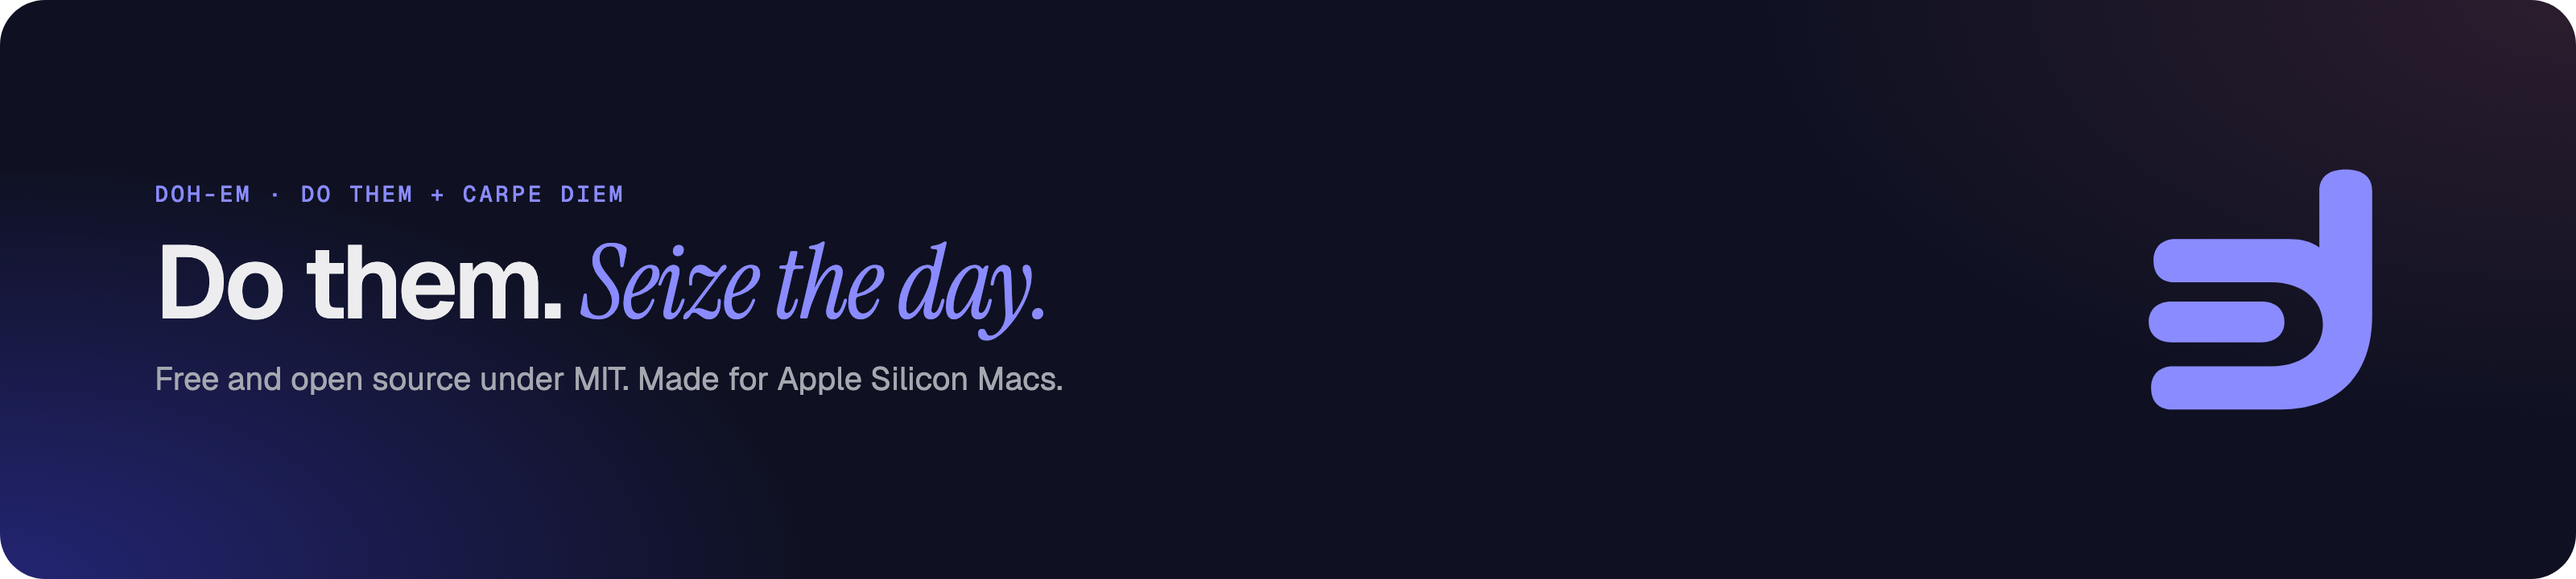
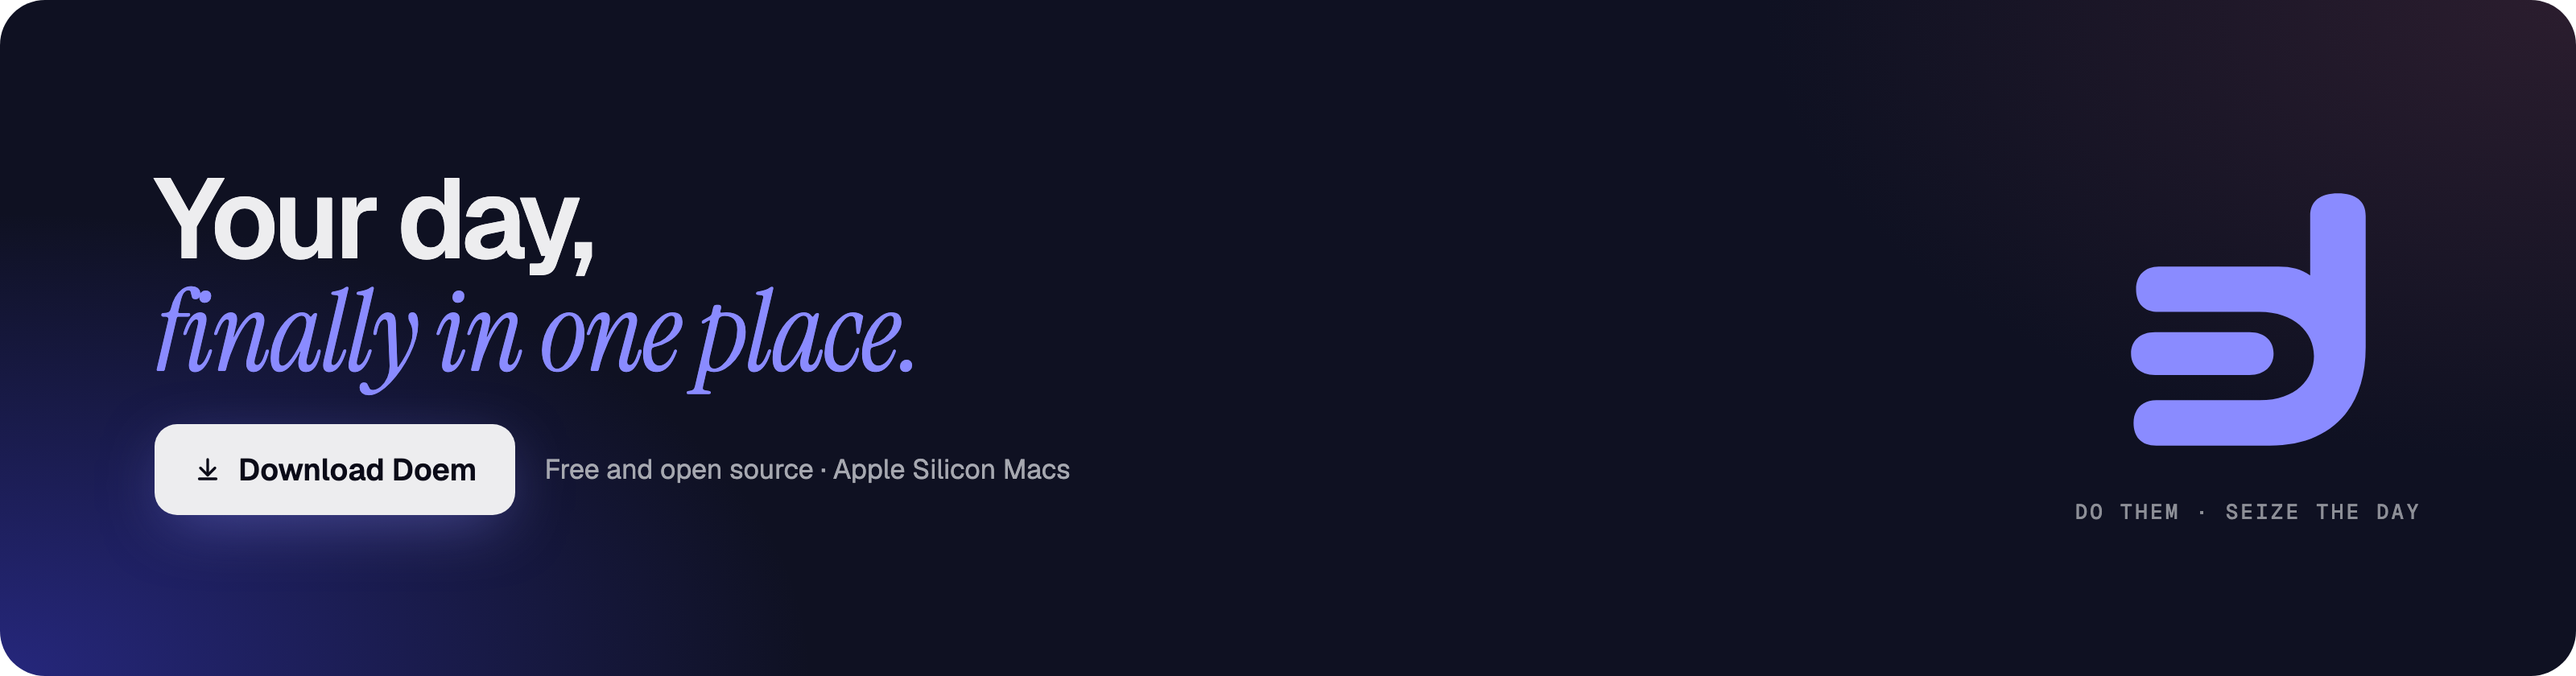
docs: rewrite the README as a product page
Outcome-led hero, four story banners with real UI zooms, Claude Code
and keyboard cards, and a download CTA footer. Reference material moves
into collapsed sections.

Changed region(s): [[0.0625, 0.2444, 0.4062, 0.5806], [0.0625, 0.6111, 0.4062, 0.7944], [0.8125, 0.275, 0.9375, 0.7639]]

diff --git a/README.md b/README.md
@@ -1,80 +1,71 @@
-<picture>
-  <source media="(prefers-color-scheme: dark)" srcset="docs/media/banners/hero-dark.png">
-  <img src="docs/media/banners/hero-light.png" alt="doem. Do them. Seize the day. Tasks, calendar and tracked time in one Mac app.">
-</picture>
+<a href="https://github.com/PurvarajG/doem/releases/latest/download/Doem-latest-arm64.dmg">
+  <picture>
+    <source media="(prefers-color-scheme: dark)" srcset="docs/media/banners/hero-dark.png">
+    <img src="docs/media/banners/hero-light.png" alt="doem. Plan the day. Know where it went. Tasks, calendar and a timer in one window.">
+  </picture>
+</a>
 
 <p align="center">
-  <a href="https://github.com/PurvarajG/doem/releases/latest/download/Doem-latest-arm64.dmg"><img src="https://img.shields.io/badge/Download-Apple%20Silicon%20.dmg-4a4ae8?style=for-the-badge&logo=apple&logoColor=white" alt="Download for Apple Silicon (.dmg)"></a>
+  <a href="https://github.com/PurvarajG/doem/releases/latest/download/Doem-latest-arm64.dmg"><img src="https://img.shields.io/badge/Download%20for%20Mac-Free-4a4ae8?style=for-the-badge&logo=apple&logoColor=white" alt="Download for Mac, free"></a>
 </p>
 
 <p align="center">
-  <a href="https://github.com/PurvarajG/doem/releases/latest"><img src="https://img.shields.io/github/v/release/PurvarajG/doem?style=flat-square&color=4a4ae8&label=release" alt="Latest release"></a>
-  <img src="https://img.shields.io/badge/macOS-12%2B%20·%20arm64-141519?style=flat-square" alt="macOS 12 or later, Apple Silicon">
-  <img src="https://img.shields.io/badge/data-stays%20local-8a8bff?style=flat-square" alt="Data stays local">
-  <a href="LICENSE"><img src="https://img.shields.io/badge/licence-MIT-141519?style=flat-square" alt="MIT licence"></a>
+  <a href="https://github.com/PurvarajG/doem/releases/latest"><img src="https://img.shields.io/github/v/release/PurvarajG/doem?style=flat-square&color=4a4ae8&label=latest" alt="Latest release"></a>
+  <img src="https://img.shields.io/badge/Apple%20Silicon-macOS%2012%2B-141519?style=flat-square" alt="Apple Silicon, macOS 12 or later">
+  <a href="LICENSE"><img src="https://img.shields.io/badge/open%20source-MIT-141519?style=flat-square" alt="Open source, MIT"></a>
 </p>
 
-<p align="center">
-Doem is a Mac app that keeps your tasks, your calendar and your tracked time in one place,<br>with all data stored locally on your computer.
-</p>
+<h3 align="center">Your to-do list doesn't know how long things take.<br>Your calendar doesn't know what you need to do.<br>Doem knows both.</h3>
 
 <br>
 
+<img src="docs/media/banners/feature-plan.png" alt="Know what fits before you say yes. Every day shows how full it is, and Doem flags a day that is overbooked.">
+
+<img src="docs/media/banners/feature-calendar.png" alt="Your week, blocked out. Drag tasks onto days and see planned time beside tracked time.">
+
+<img src="docs/media/banners/feature-tracking.png" alt="See where the hours went. Time by day and project, and how far your estimates were off.">
+
+<img src="docs/media/banners/feature-wrap.png" alt="End the day with a clean slate. A two-minute wrap up of what got done, which estimates ran over and what is on for tomorrow.">
+
 <table>
   <tr>
-    <td width="50%"><img src="docs/media/banners/feature-tasks.png" alt="Tasks: capture fast, plan the day"></td>
-    <td width="50%"><img src="docs/media/banners/feature-calendar.png" alt="Calendar: your tasks on the calendar"></td>
-  </tr>
-  <tr>
-    <td width="50%"><img src="docs/media/banners/feature-tracking.png" alt="Time tracking: see where the hours went"></td>
-    <td width="50%"><img src="docs/media/banners/feature-privacy.png" alt="Privacy: your data stays home"></td>
+    <td width="50%"><img src="docs/media/banners/feature-claude.png" alt="Knows when Claude is waiting. Doem notifies you when a Claude Code session needs a reply."></td>
+    <td width="50%"><img src="docs/media/banners/feature-keys.png" alt="Never reach for the mouse. Single-key shortcuts and quick capture from any app."></td>
   </tr>
 </table>
 
-## What it does
+## And everything else you'd want
 
-**Tasks.** Capture tasks into an Inbox, give them dates, estimates, subtasks and notes, and organise them into projects. Projects open as a board with stages. Task lists are keyboard driven (see Keyboard shortcuts). A quick-capture window opens from a global shortcut (Control+Option+Space by default, changeable in Settings).
+- **Quick capture from any app.** Control+Option+Space opens a capture window. Type `Call printer 20m tomorrow #project` and it lands with the date, estimate and project filled in.
+- **Projects as boards.** Each project opens as a board with its own stages.
+- **Focus sessions.** Press F on any task to start one.
+- **A timer in the menu bar.** The running task and its time are always one glance away, with an optional nudge when nothing has been tracked for a while.
+- **Your iCloud calendar, in the same view.** Events sit beside your tasks, and Doem can publish its tasks as a feed that macOS Calendar subscribes to.
+- **Light and dark.** Both themes are designed from scratch, and an optional Dock badge counts today's tasks.
+- **No account, no sign-up.** Open it and start. Everything is saved on your Mac.
 
-**Today and the week.** Today shows what you have committed to, what is up next, what carried over from earlier days, and what you finished. Next 7 days gives a week-planning grid. All tasks, Completed and Trash hold the rest.
+## Get started
 
-**Calendar.** Month, week and day views. Tasks can be dragged between days. Events from an iCloud calendar can be shown beside your tasks, and Doem can publish its own tasks as a calendar feed that macOS Calendar can subscribe to.
-
-**Time tracking.** Start and stop a timer on any task, or log activities against categories. The Tracking view shows time by day, by project and by category, with a day timeline where gaps can be filled in. A menu bar item shows the running timer. An optional nudge reminds you when nothing has been tracked for a set time.
-
-**Focus.** Start a focus session on a task from the keyboard.
-
-**End of day.** A wrap-up flow checks the day, triages the Inbox, reviews estimate misses and lets you commit tasks for tomorrow.
-
-**Claude Code awareness (optional).** When enabled in Settings, Doem reads Claude Code session files on your Mac, never changing them, to suggest time blocks and to tell you when a session is waiting.
-
-**Appearance.** Light and dark themes, and a Dock badge that shows today's task count (optional).
-
-## Privacy
-
-Doem stores everything in a local PGlite database inside the app's data folder on your Mac. There is no account, no sign-in and no analytics. The app's interface is served from a local web server bound to 127.0.0.1.
-
-The only network requests the app makes are:
-
-1. Once a day, a check for a newer version: a GET request to `api.github.com/repos/PurvarajG/doem/releases/latest`. It is made only by the packaged app, sends no data about you or your tasks, and only reports that a release exists.
-2. If you enter an Apple ID and an app-specific password in Settings, a connection to `caldav.icloud.com` to read your iCloud calendar events.
-
-The calendar feed that Doem publishes is served from 127.0.0.1 on your own Mac and does not leave it.
-
-## Install
-
-Doem is built for Apple Silicon Macs (arm64) only. It bundles Electron 43, which supports recent versions of macOS (macOS 12 or later); package.json does not set a separate minimum.
-
-1. Download the .dmg from the link above and drag Doem into Applications.
-2. Doem is not signed or notarized, so macOS blocks the first launch. Right-click Doem in Applications and choose Open, then choose Open in the dialog. If that option does not appear, open System Settings, go to Privacy & Security, find the message about Doem and choose Open Anyway.
-
-This is needed once. Later launches open normally.
-
-If you used the app under its earlier name, Tempo, Doem moves your existing data into its own folder on first launch.
-
-## Keyboard shortcuts
+1. **[Download Doem](https://github.com/PurvarajG/doem/releases/latest/download/Doem-latest-arm64.dmg)** and drag it into Applications.
+2. The first time, right-click Doem and choose **Open**. You only do this once.
 
 <details>
-<summary><b>Show all shortcuts</b></summary>
+<summary>Requirements and first-launch help</summary>
+
+<br>
+
+Doem runs on Apple Silicon Macs (M1 and later) with macOS 12 or newer.
+
+The app is not yet signed with an Apple Developer certificate, so macOS asks before the first launch. Right-click Doem in Applications and choose Open, then choose Open in the dialog. If that option does not appear, open System Settings, go to Privacy & Security, find the message about Doem and choose Open Anyway. Later launches open normally.
+
+If you used the app under its earlier name, Tempo, Doem moves your existing data over on first launch.
+
+Doem keeps your data in a local database on your Mac. It contacts the internet only to check once a day for a new version (`api.github.com`), and to read your iCloud calendar if you connect one in Settings.
+
+</details>
+
+<details>
+<summary>Keyboard shortcuts</summary>
 
 <br>
 
@@ -105,7 +96,10 @@ Anywhere in the app:
 
 </details>
 
-## Build from source
+<details>
+<summary>Build from source</summary>
+
+<br>
 
 Requires Node.js 22 and macOS.
 
@@ -118,29 +112,12 @@ npm run electron:build # .dmg for Apple Silicon
 
 Other useful scripts: `npm test` (unit and UI tests), `npm run typecheck`, `npm run lint`. Set `PGLITE_DIR` to a folder of your choice to keep a development database apart from the app's own data.
 
-## Design documents
-
-The design documents for the v2 redesign are in [docs/design/v2/](docs/design/v2/). The release steps are in [docs/release-checklist.md](docs/release-checklist.md). Brand assets and usage notes are in [brand/doem/](brand/doem/START-HERE.md). The README banners are in [docs/media/banners/](docs/media/banners/).
-
-## Screenshots
-
-<details>
-<summary><b>Full-size screenshots</b></summary>
-
-<br>
-
-| | |
-| --- | --- |
-| ![Today, light](docs/media/today-light.png) | ![Today, dark](docs/media/today-dark.png) |
-| ![Calendar](docs/media/calendar-light.png) | ![Tracking](docs/media/tracking-light.png) |
-| ![Project board](docs/media/project-board-light.png) | |
+Design documents for the v2 redesign are in [docs/design/v2/](docs/design/v2/), release steps in [docs/release-checklist.md](docs/release-checklist.md), brand assets in [brand/doem/](brand/doem/START-HERE.md) and these README banners in [docs/media/banners/](docs/media/banners/).
 
 </details>
 
-## Licence
-
-MIT. See [LICENSE](LICENSE).
-
 <br>
 
-<img src="docs/media/banners/footer.png" alt="Do them. Seize the day.">
+<a href="https://github.com/PurvarajG/doem/releases/latest/download/Doem-latest-arm64.dmg"><img src="docs/media/banners/footer.png" alt="Your day, finally in one place. Download Doem, free for Apple Silicon Macs."></a>
+
+<p align="center"><sub>MIT licensed. See <a href="LICENSE">LICENSE</a>.</sub></p>
